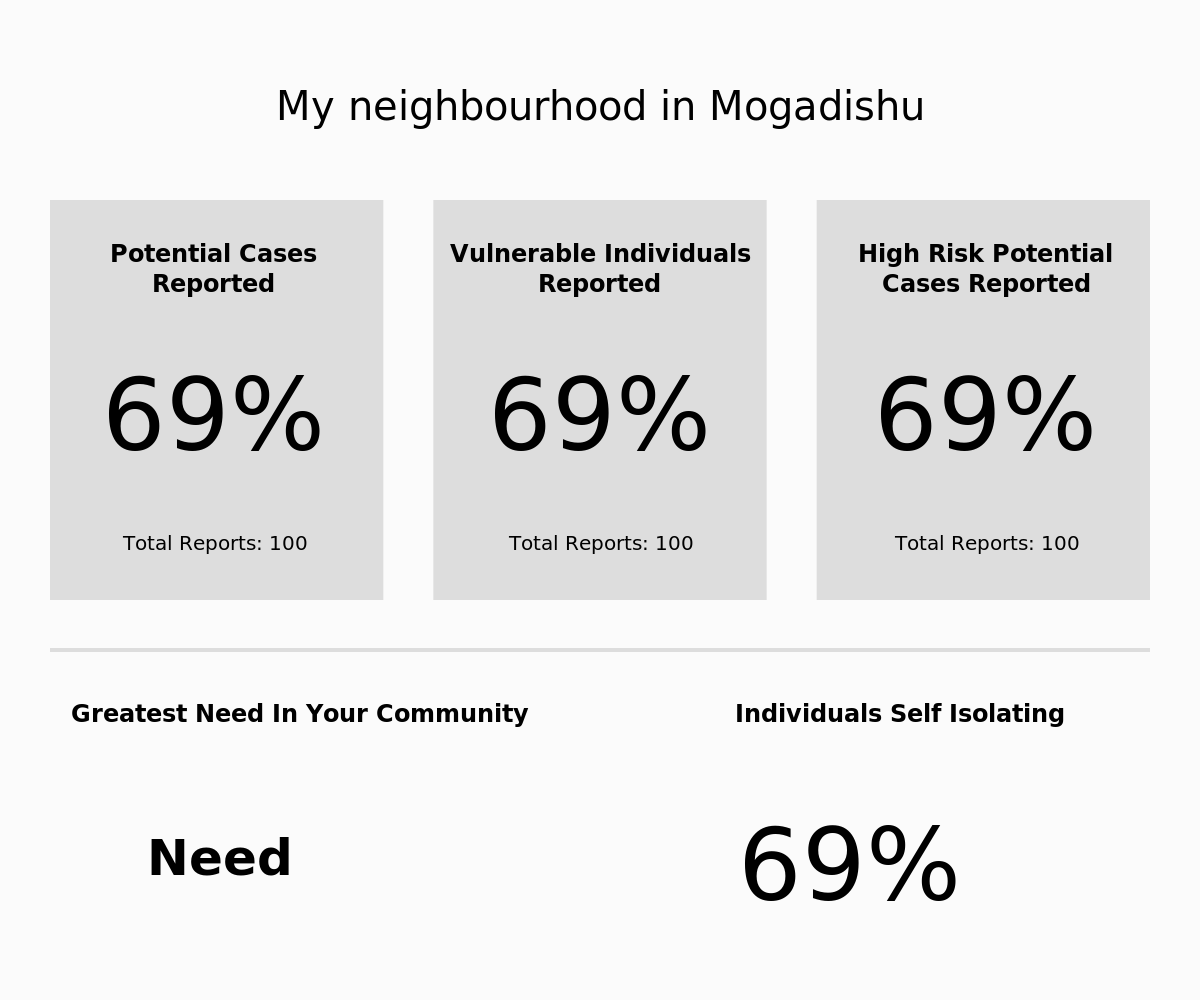
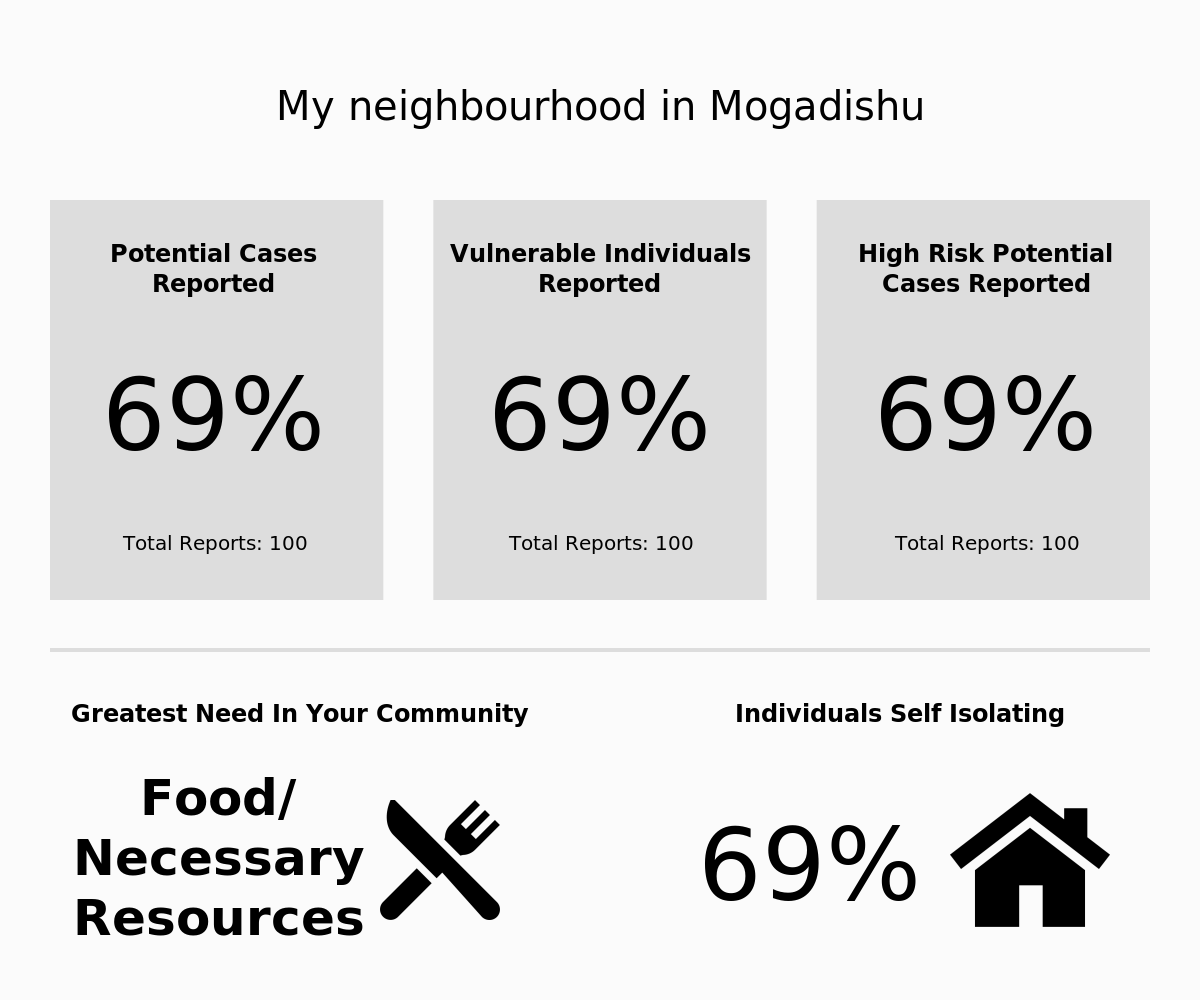
trying to upload new card

Changed region(s): [[0.0617, 0.775, 0.4317, 0.961], [0.5858, 0.775, 0.925, 0.93]]

diff --git a/dags/image_card/main.py b/dags/image_card/main.py
@@ -6,7 +6,6 @@ potential = 69
 vulnerable = 69
 high_risk = 69
 total = 100
-need = "need"
 need = "food"
 self_iso = 69
 
@@ -41,11 +40,13 @@ d.append(draw.Line(25, 175, 575, 175,stroke="#dddddd", stroke_width=2, fill='non
 d.append(draw.Text("Greatest Need In Your Community",12,150,145,center=True,fill="#000000",font_weight="bold"))
 if need == "financialSupport":
   d.append(draw.Text("Financial",25,100,85,center=True,fill="#000000",font_weight="bold"))
+  d.append(draw.Text("Support",25,100,55,center=True,fill="#000000",font_weight="bold"))
 
   d.append(draw.Image(180,30,80,80,path="museum.png"))
 elif need == "emotionalSupport":
   d.append(draw.Text("Emotional",25,100,85,center=True,fill="#000000",font_weight="bold"))
   d.append(draw.Text("Support",25,100,55,center=True,fill="#000000",font_weight="bold"))
+  d.append(draw.Image(180,40,60,60,path="heart.png"))
 elif need == "medication":
   d.append(draw.Text("Medication",25,110,75,center=True,fill="#000000",font_weight="bold"))
   d.append(draw.Image(190,30,80,80,path="drug.png"))
